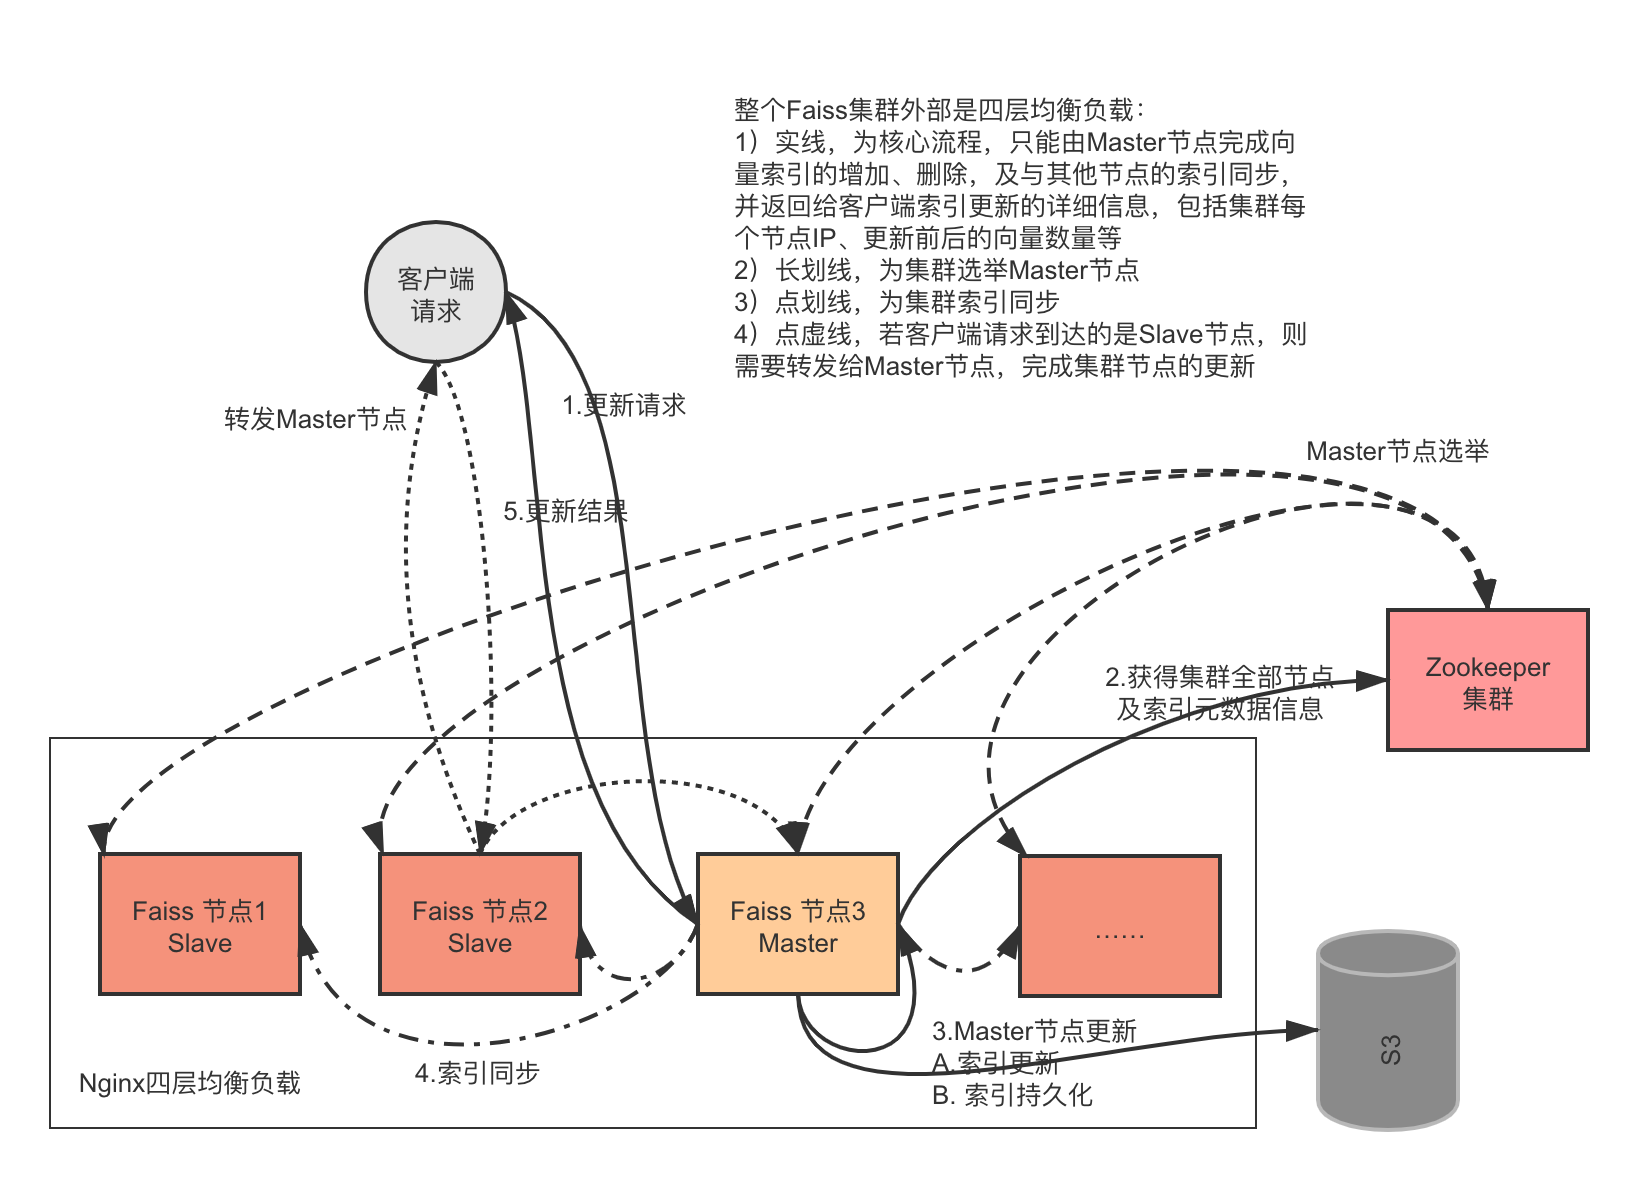
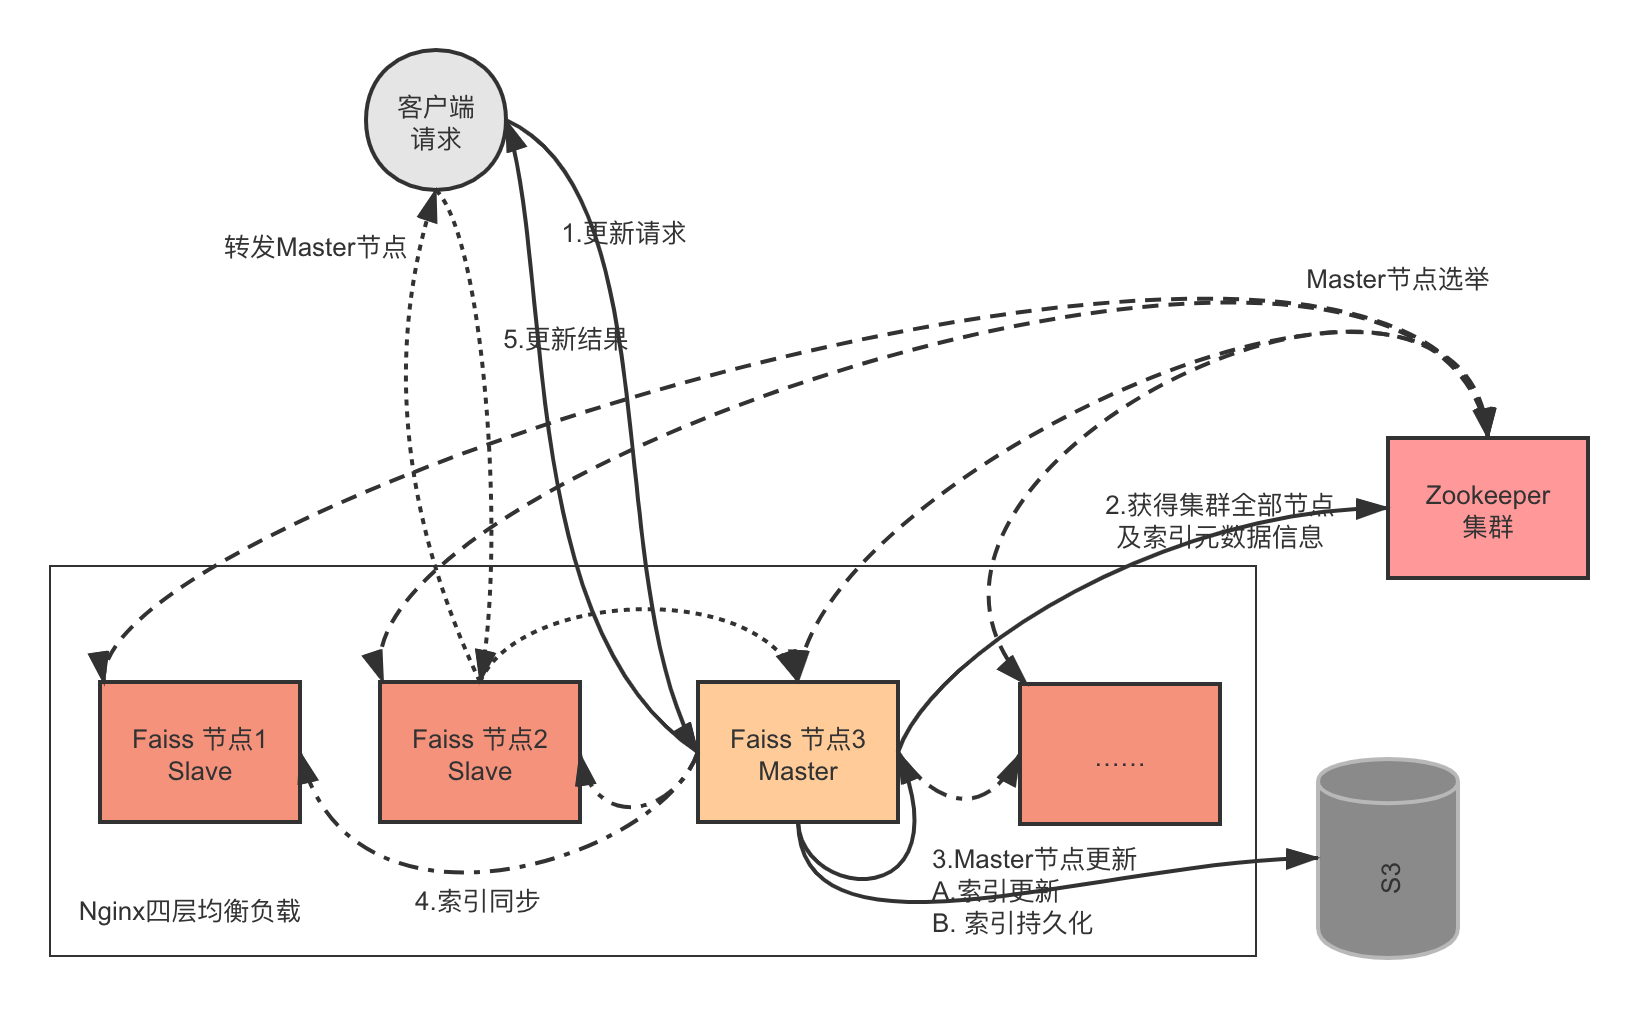
fixed

diff --git a/README.md b/README.md
@@ -8,6 +8,17 @@
 
 ![架构](doc/image/arc.png?raw=true)
 
+整个Faiss集群外部是四层均衡负载：
+
+1. 实线，为核心流程，只能由Master节点完成向量索引的增加、删除，及与其他节点的索引同步，并返回给客户端索引更新的详细信息，包括集群每个节点IP、更新前后的向量数量等
+2. 长划线，为集群选举Master节点
+3. 点划线，为集群索引同步
+4. 点虚线，若客户端请求到达的是Slave节点，则需要转发给Master节点，完成集群节点的更新 
+
+> 若图片不能正常显示
+> 配置hosts文件
+> 151.101.76.133 raw.githubusercontent.com
+
 # 2 grpc
 ```shell script
 python -m grpc_tools.protoc -I ./ --python_out=./ --grpc_python_out=./ compute.proto
